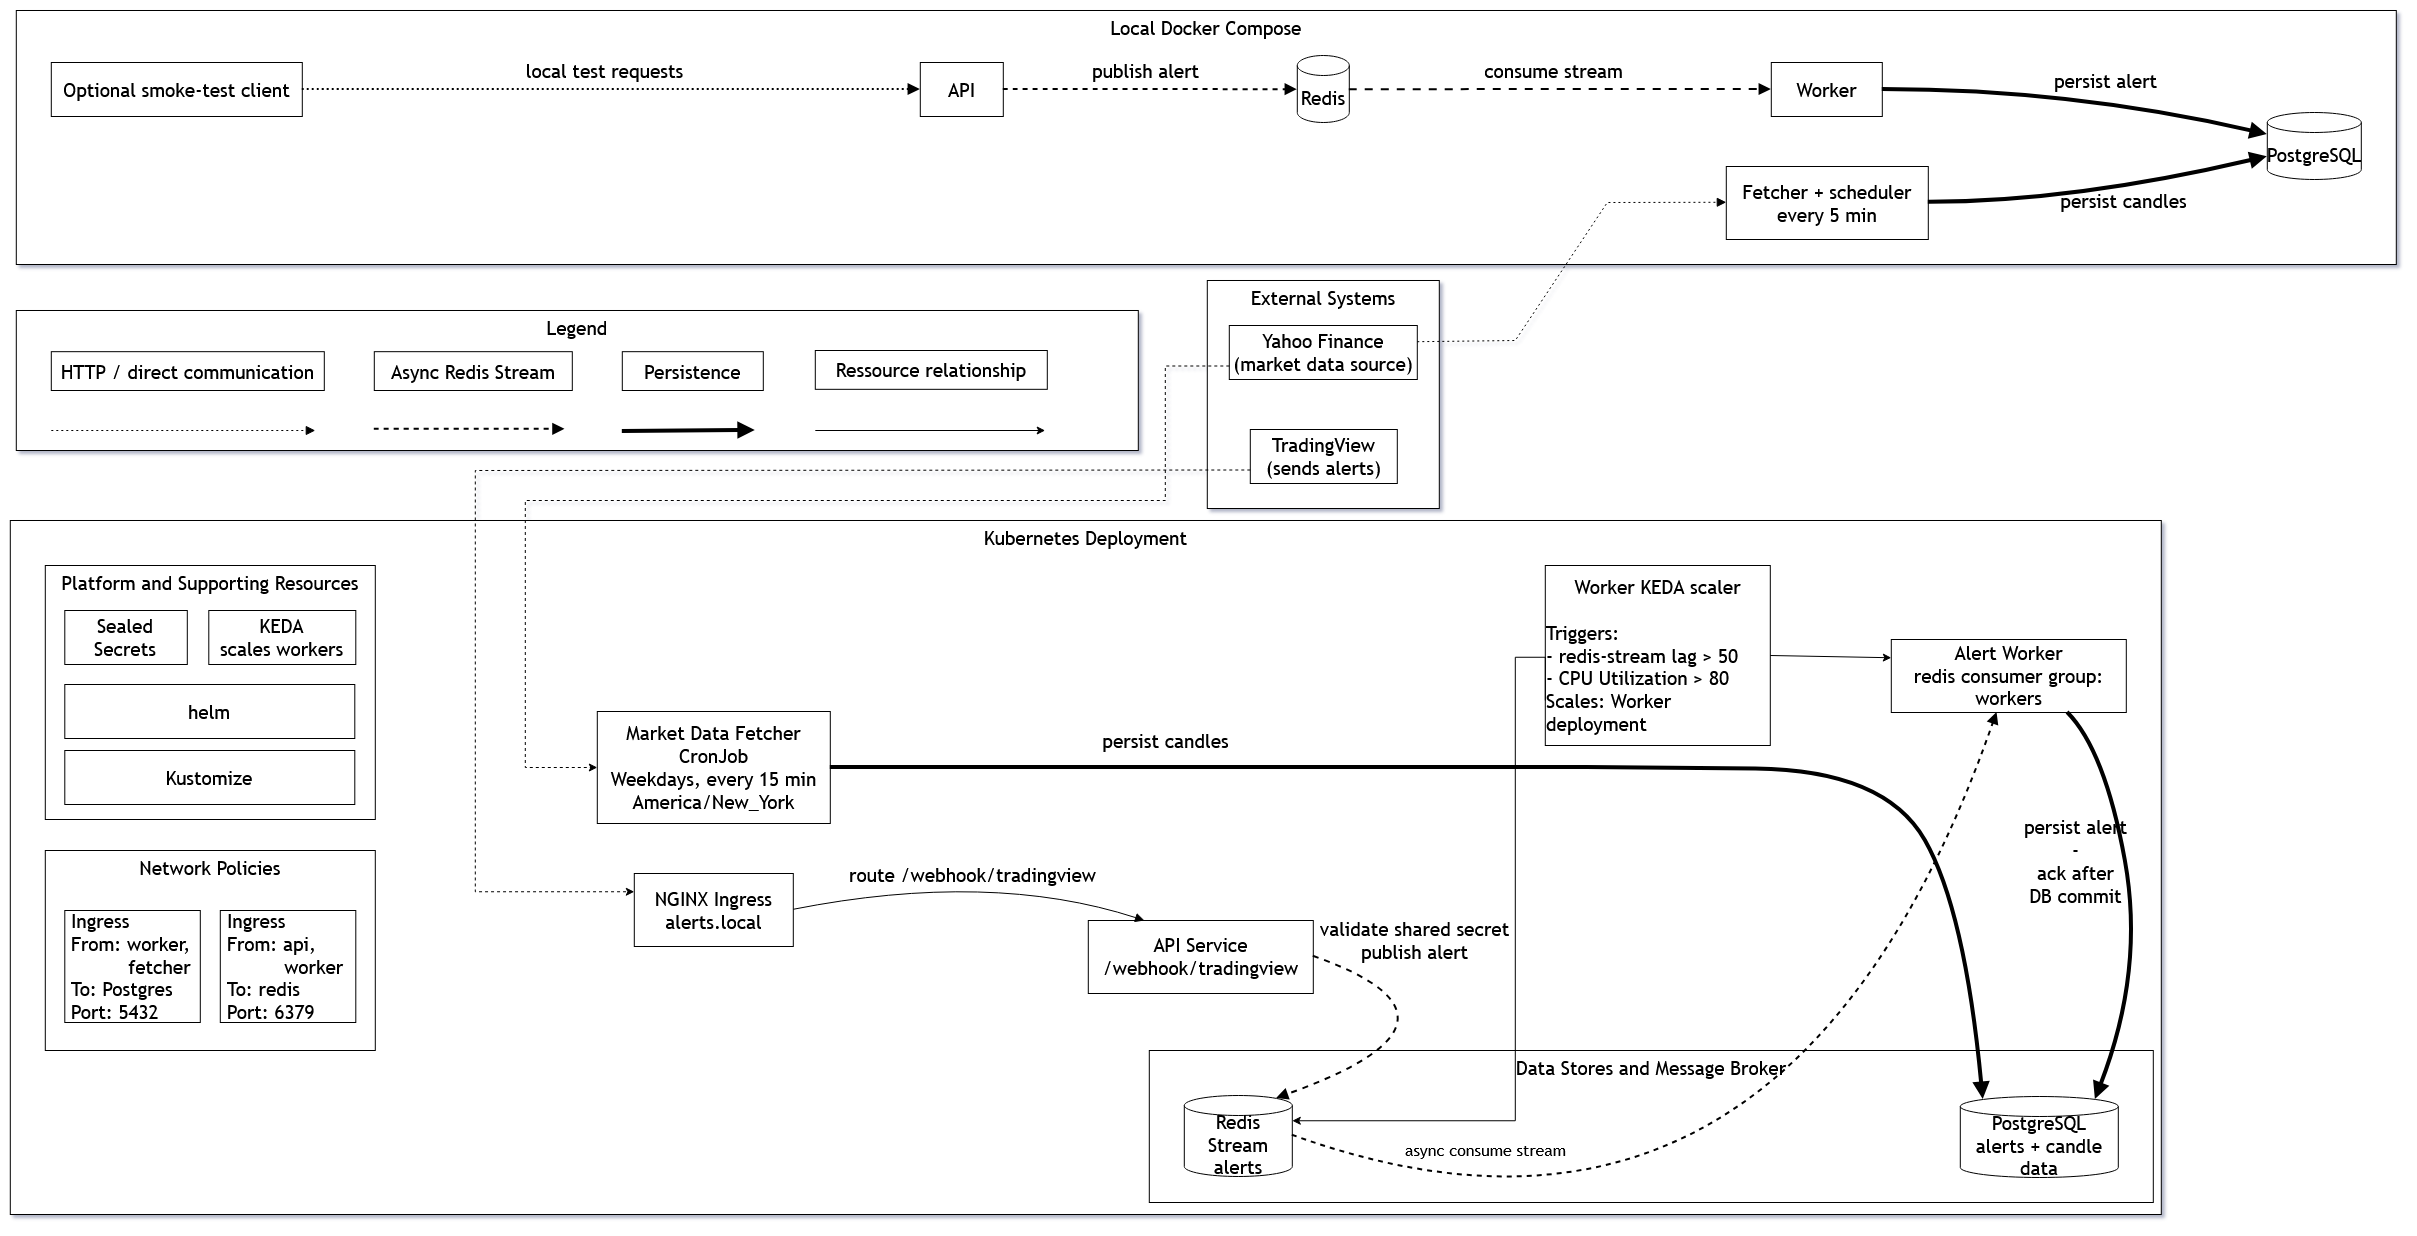
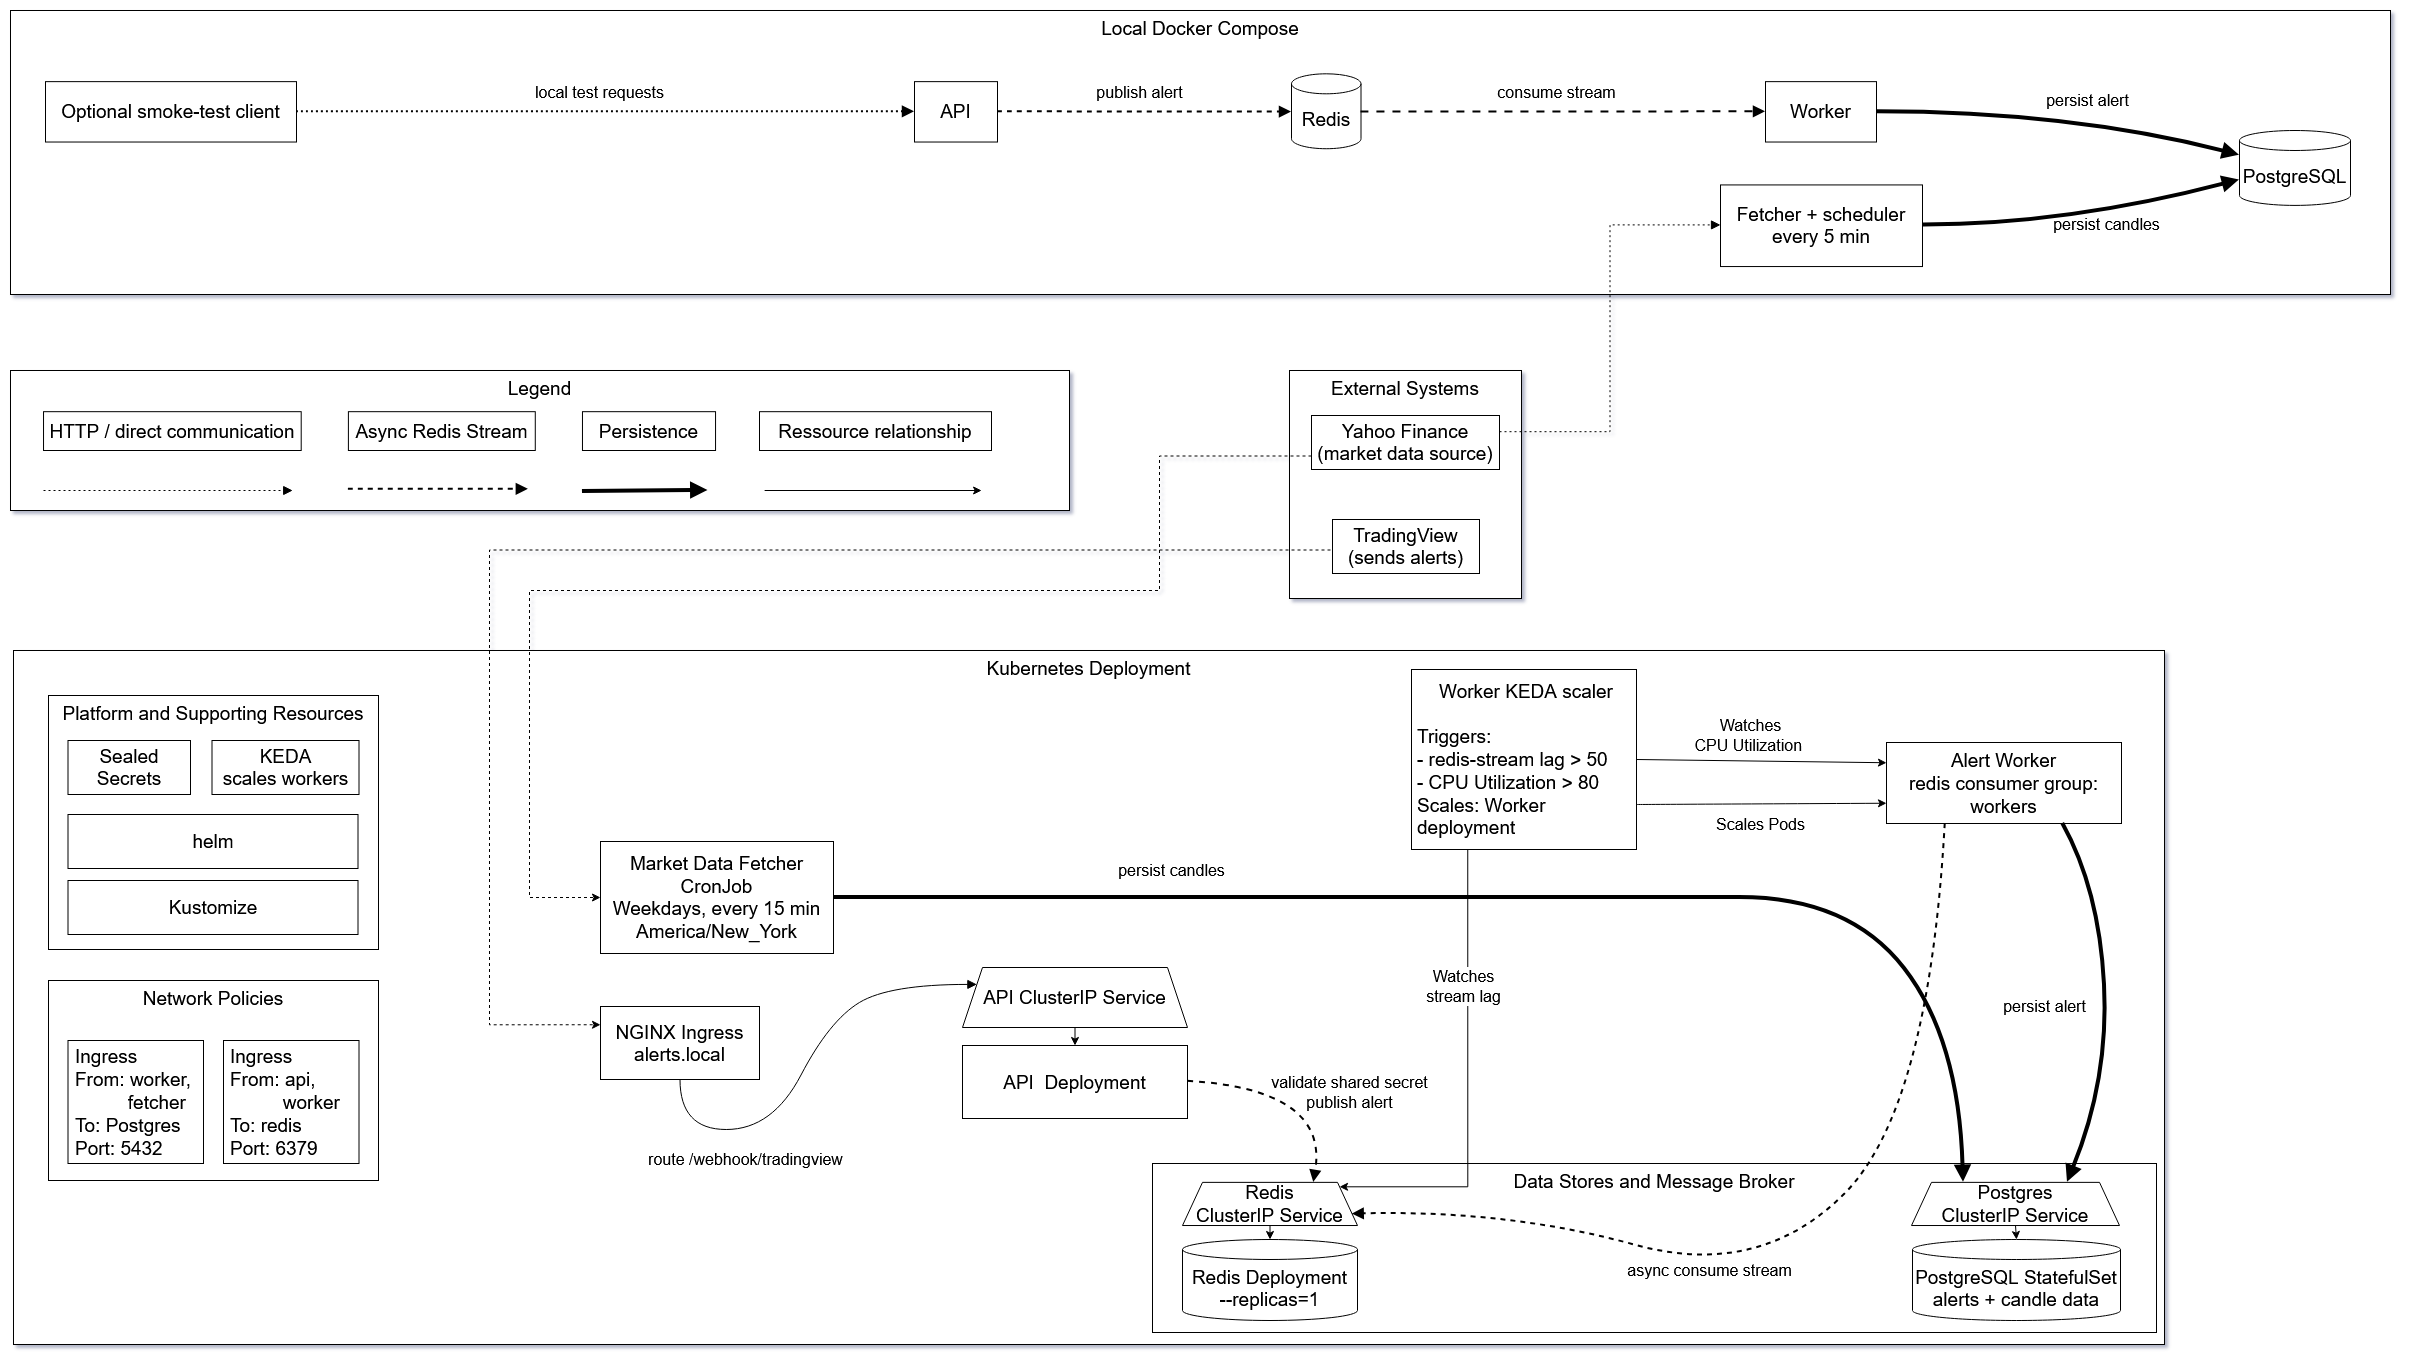
Develop (#4)
Updated architecture overview + added coderabbit.yam

diff --git a/services/worker/app/worker.py b/services/worker/app/worker.py
@@ -25,6 +25,7 @@ r = redis.Redis(
     password=os.environ["REDIS_PASSWORD"],
     decode_responses=True,
 )
+
 stream_name = os.getenv("REDIS_STREAM", "alerts")
 group = os.getenv("REDIS_GROUP", "workers")
 consumer = socket.gethostname()   # pod name = unique consumer

diff --git a/services/api/app/main.py b/services/api/app/main.py
@@ -31,6 +31,7 @@ class Alert(BaseModel):
     timeframe: str | None = None
 
 
+
 @app.post("/webhook/tradingview", status_code=202)
 def webhook(alert: Alert):
     if alert.secret != os.environ["WEBHOOK_SECRET"]:

diff --git a/readme.md b/readme.md
@@ -1,6 +1,8 @@
-# Trading Alerts
+# Market Alerts
 
 This project is a small, containerized backend for collecting and processing trading alerts and market data. A webhook API accepts TradingView alerts, validates a shared secret, and places valid alerts on a Redis stream. A worker consumes the stream and stores alerts in PostgreSQL. A separate fetcher retrieves market candle data and stores it in the same database.
+
+The services are packaged with Docker, and the project supports both local Kubernetes deployments with Minikube or kind and cloud deployments on AWS. The Terraform for AWS deployments is managed separately in the [`market-alerts-infrastructure`](https://github.com/ralf-hermann-devops/market-alerts-infrastructure) repository.
 
 ## General architecture
 
@@ -10,7 +12,6 @@ The same services can run locally with Docker Compose or be deployed to Kubernet
 
 ![Architecture overview showing the local Docker Compose and Kubernetes deployments](docs/architecture_overview.png)
 
-You can [open the architecture image](docs/architecture_overview.png) to view it larger.
 
 ## Project structure
 
@@ -21,7 +22,7 @@ You can [open the architecture image](docs/architecture_overview.png) to view it
     - `services/db/` — database initialization scripts.
 - `k8s/` — everything needed to deploy and test the application on Kubernetes
     - `k8s/manifests/` — Kustomize resources for Kubernetes applications, environment overlays, and supporting infrastructure.
-    - `k8s/bootstrapping/` — scripts to bootstrap a Kubernetes cluster with Sealed Secrets and create the encrypted manifest, plus image build-and-load helpers for Minikube and kind.
+    - [`k8s/bootstrapping/`](k8s/bootstrapping/) — scripts to bootstrap a Kubernetes cluster with Sealed Secrets and create the encrypted manifest, plus image build-and-load helpers for Minikube and kind.
     - `k8s/tests/` — tests to exercise the application in a deployed Kubernetes cluster.
 - `docs/` — project notes and architecture decision records.
     - See [`docs/architecture_decision_records/`](docs/architecture_decision_records/) for decisions about Redis, PostgreSQL, secrets, Kustomize, and staged deployment
@@ -99,7 +100,6 @@ The Docker-based test scripts honor `COMPOSE_NO_REBUILD_IN_TESTS=1`. CI sets it 
 
 For instructions covering local application unit tests, Docker smoke and integration tests, and Kubernetes manifest and cluster tests, see the [local testing guide](docs/local-testing.md).
 
-Platform infrastructure is managed separately in the `market-alerts-platform` repository.
 
 ## Key technologies and implementation
 
